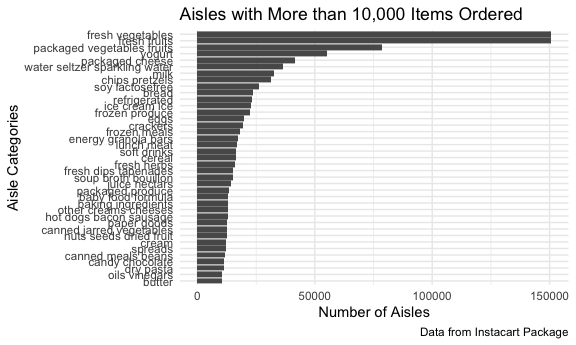
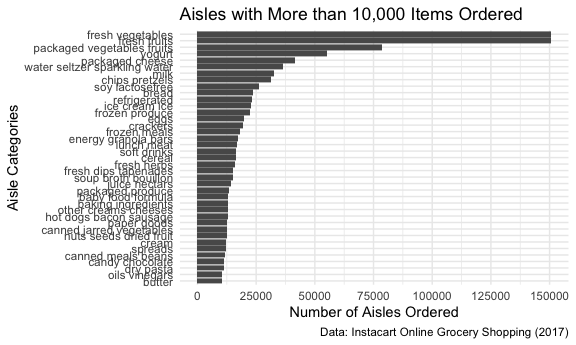
Editing plot for aisles mostly ordered from

Changed region(s): [[0.5, 0.8406, 1.0, 0.9855], [0.8125, 0.8406, 0.9062, 0.8696], [0.4062, 0.8406, 0.4688, 0.8696]]

diff --git a/p8105_hw2_smo2147.md b/p8105_hw2_smo2147.md
@@ -54,11 +54,15 @@ instacart |>
   labs(
     title = "Aisles with More than 10,000 Items Ordered",
     x = "Aisle Categories",
-    y = "Number of Aisles",
-    caption = "Data from Instacart Package" 
+    y = "Number of Aisles Ordered",
+    caption = "Data: Instacart Online Grocery Shopping (2017)" 
   ) +
   geom_col() +
-  coord_flip()
+  coord_flip() +
+  scale_y_continuous(
+    breaks = c(0, 25000, 50000, 75000, 
+               100000, 125000, 150000)
+  )
 ```
 
 <img src="p8105_hw2_smo2147_files/figure-gfm/unnamed-chunk-1-1.png" width="90%" />
